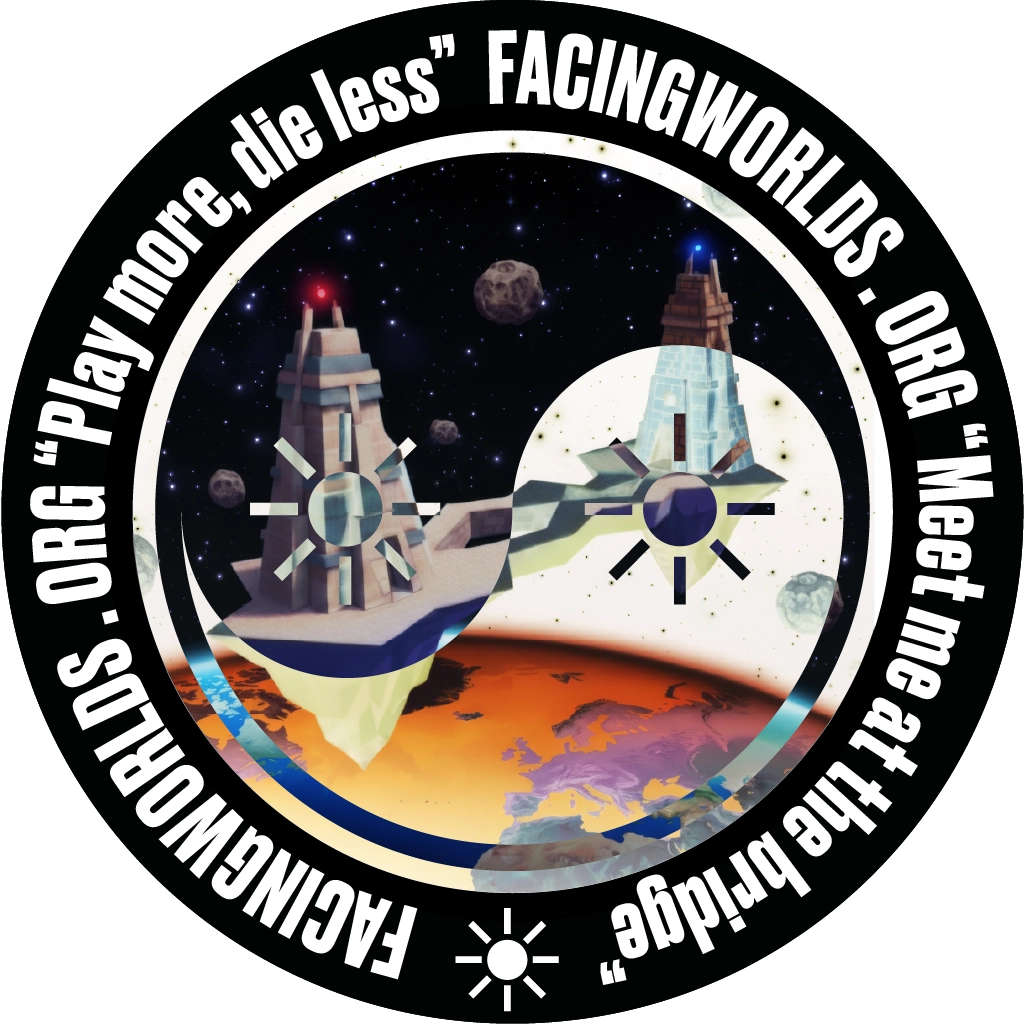
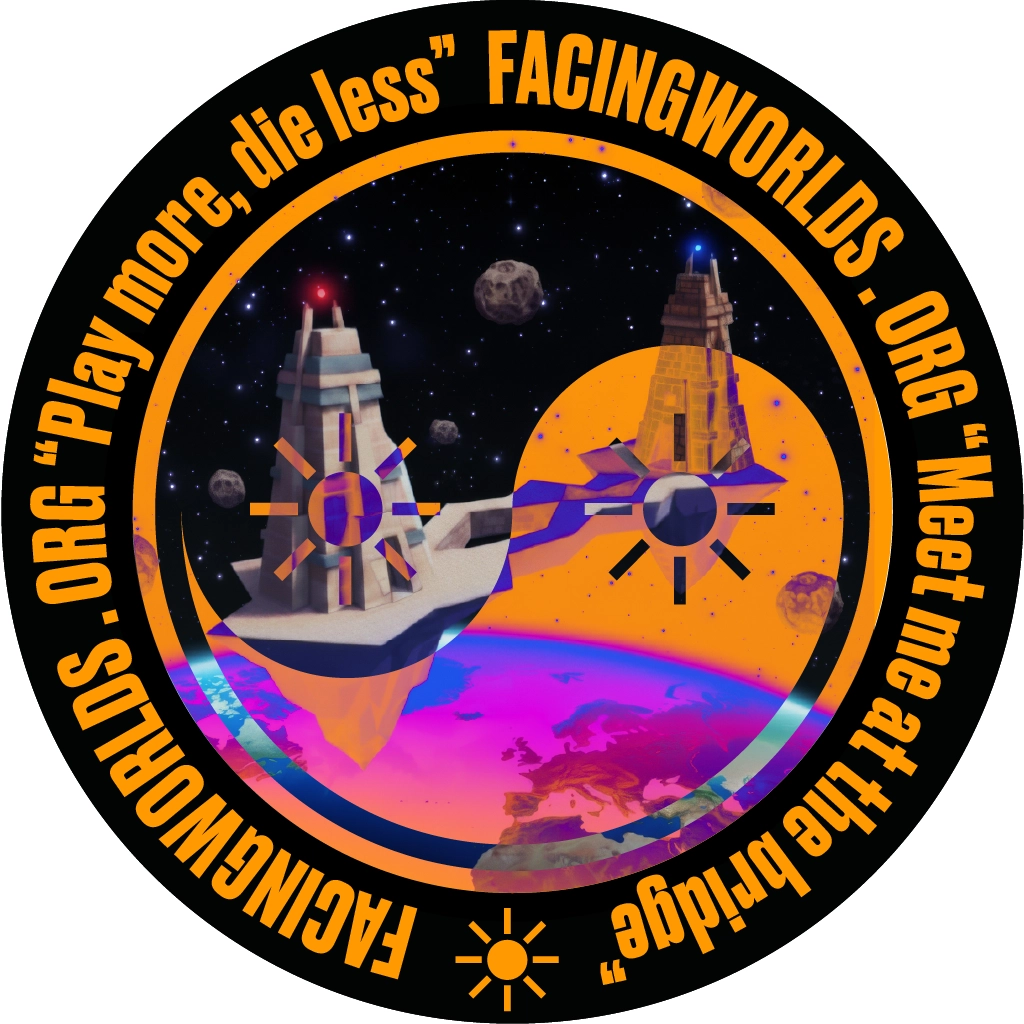
x

diff --git a/ar/index.html b/ar/index.html
@@ -80,7 +80,7 @@
                          Make sure to follow the guidelines for images (see the docs) -->
           <ar-reference-image
             name="mage"
-            src="assets/images/tracker.webp"></ar-reference-image>
+            src="assets/images/tracker3.webp"></ar-reference-image>
         </ar-image-tracker>
       </ar-trackers>
 
